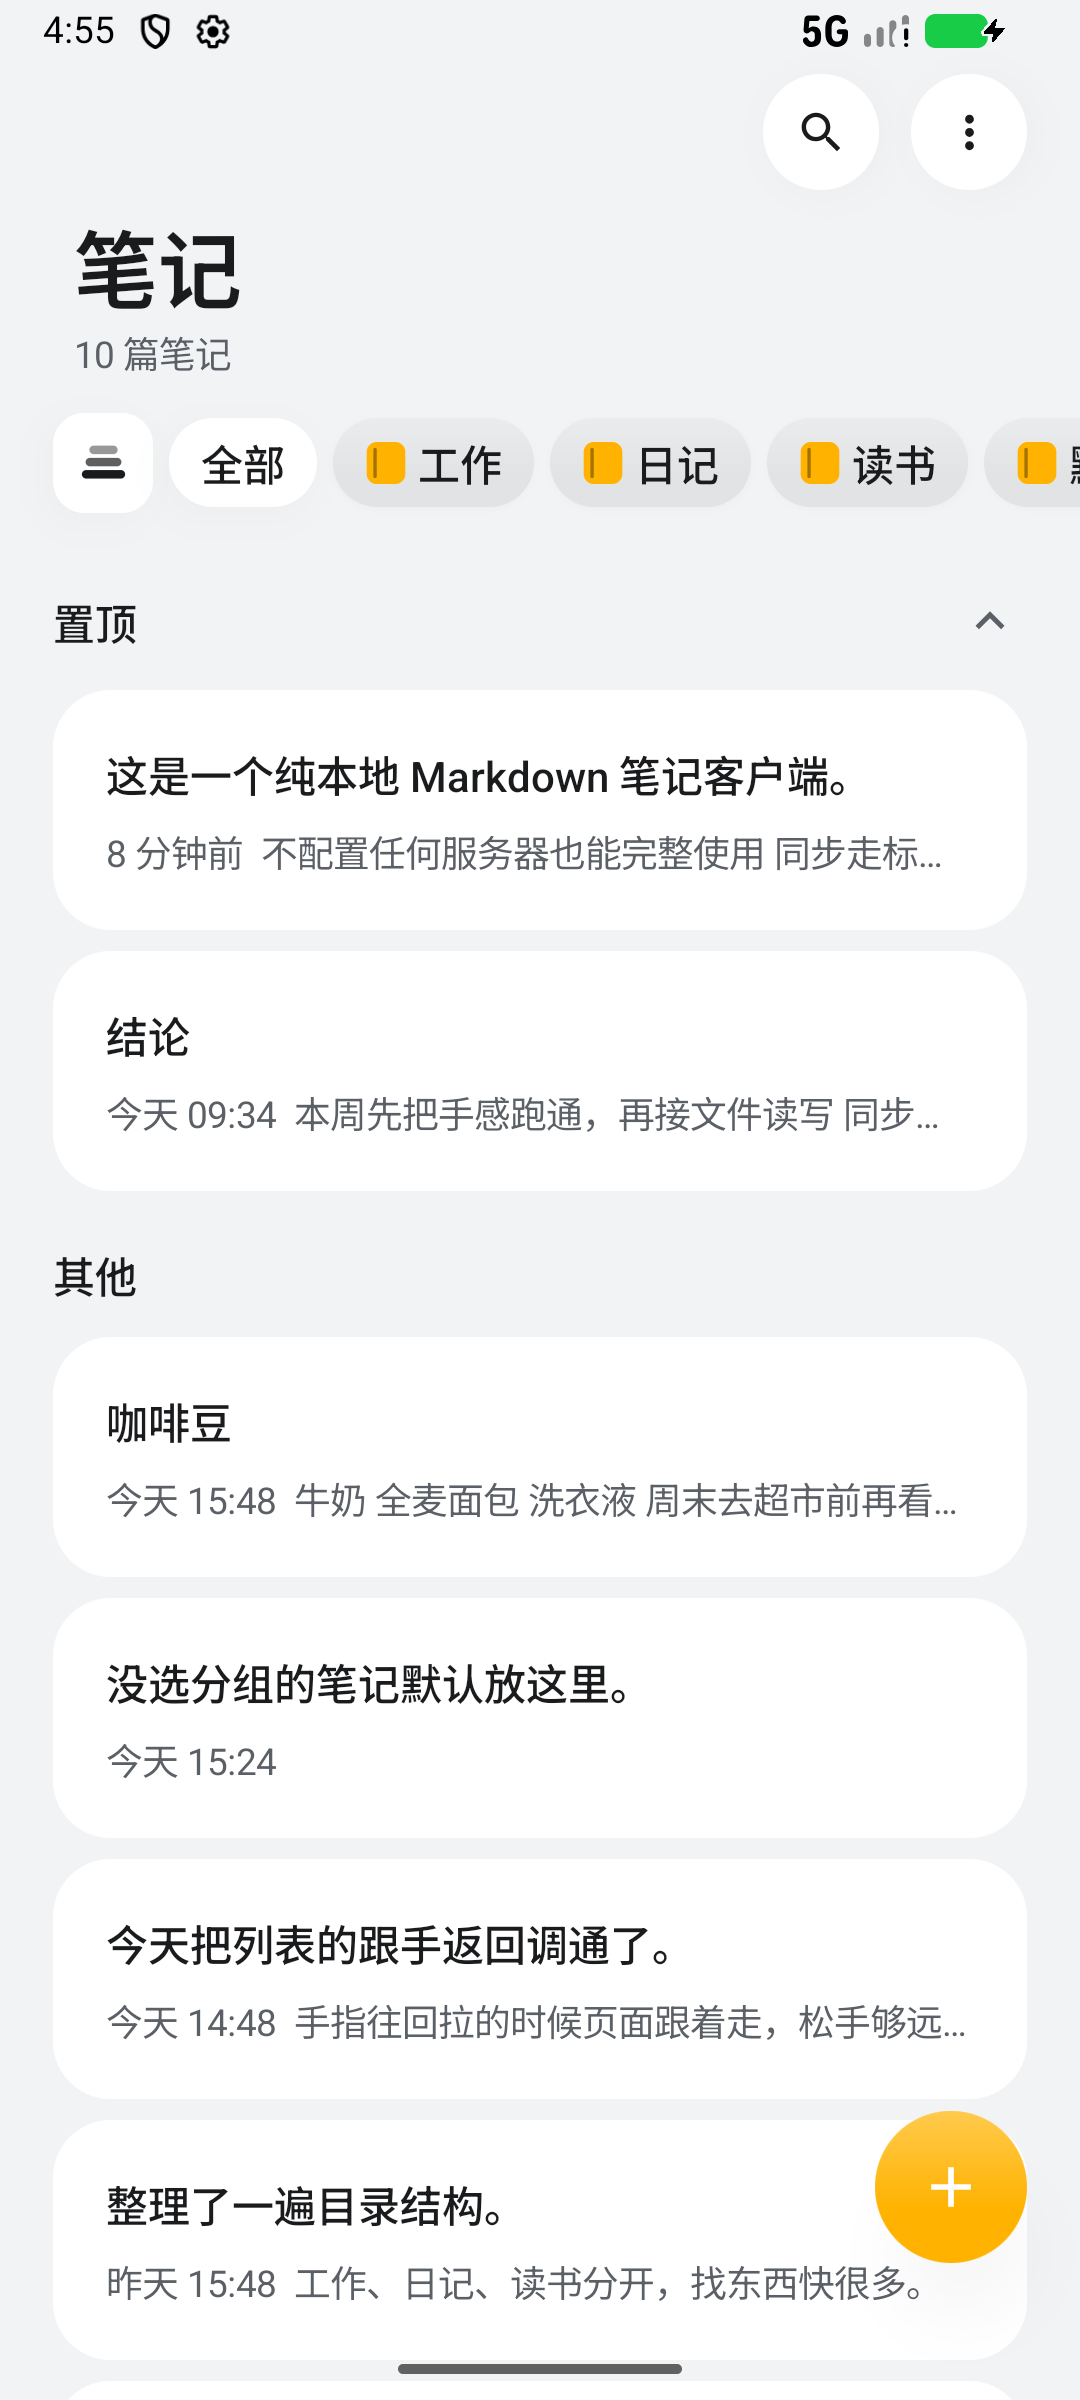
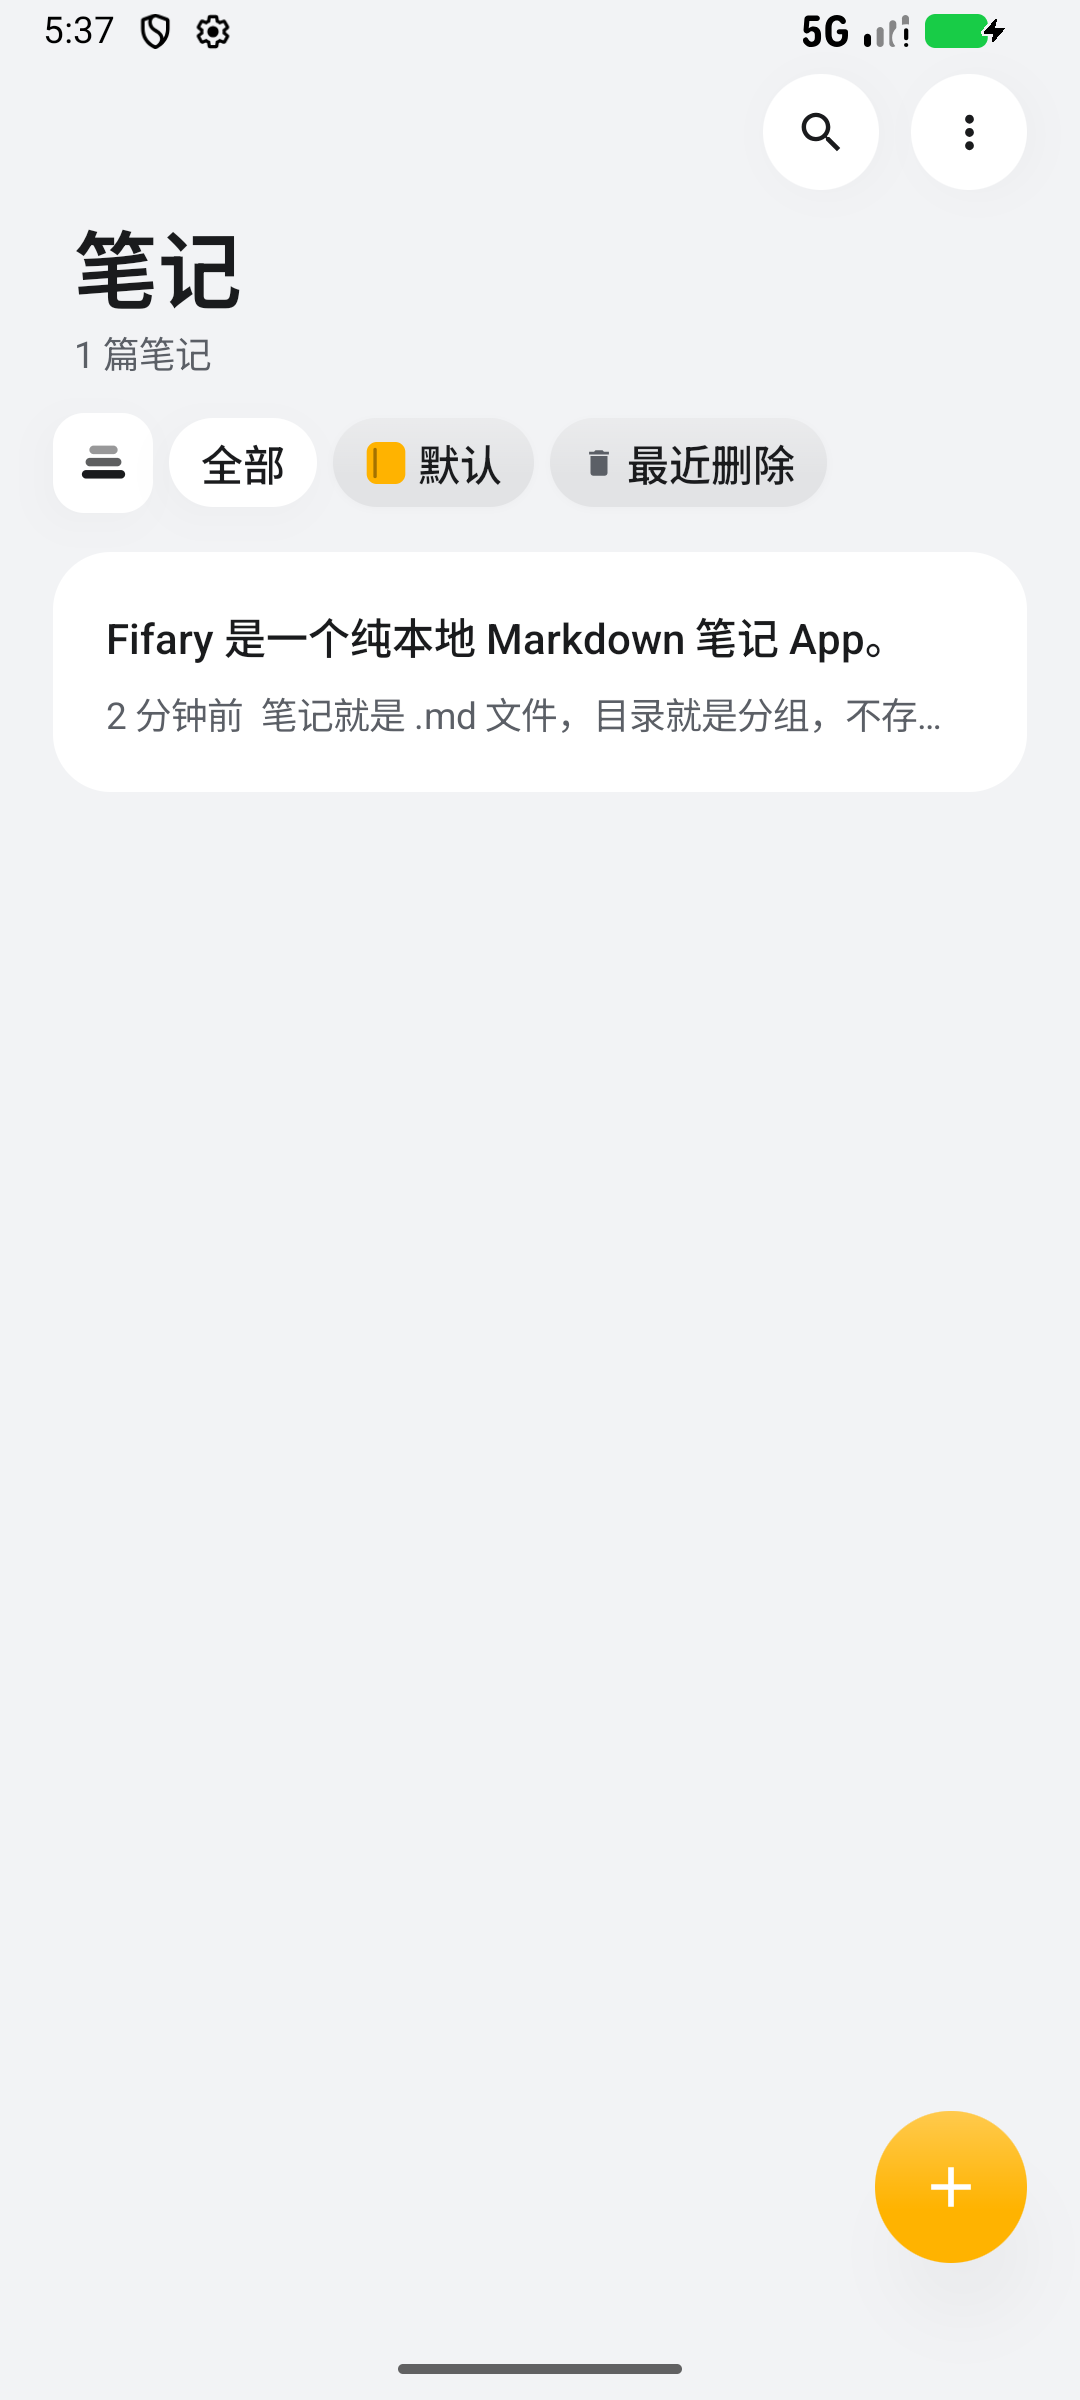
首次安装只留一篇介绍笔记；WebDAV 同步固定落在 Fifary/ 子目录
灌满 11 篇示例笔记等于替用户写内容，第一次打开只有噪声，改成默认分组里一篇介绍。
同步原来直接拿用户填的目录当 vault，会和他已有的文件混在一起，改成在下面建 Fifary/ 再读写；
用户本来填的就是 .../Fifary 时不重复加。

diff --git a/app/src/main/java/io/github/fifary/data/Notes.kt b/app/src/main/java/io/github/fifary/data/Notes.kt
@@ -45,80 +45,18 @@ object NotesStore {
 
     private val now = System.currentTimeMillis()
 
-    // 第一次装、vault 还不存在时灌一次的示例笔记；之后盘上有什么就显示什么
+    // 第一次装、vault 还不存在时灌一篇介绍；之后盘上有什么就显示什么
     private val seed: List<Note> = listOf(
         Note(
-            path = "欢迎使用 Fifary.md",
-            body = "这是一个纯本地 Markdown 笔记客户端。\n\n" +
-                "- 不配置任何服务器也能完整使用\n" +
-                "- 同步走标准 WebDAV，随时可换\n" +
-                "- 分类就是目录，和 Obsidian 一样：文件怎么放，App 里就怎么显示",
+            path = "$DEFAULT/欢迎使用 Fifary.md",
+            body = "Fifary 是一个纯本地 Markdown 笔记 App。\n\n" +
+                "- 笔记就是 .md 文件，目录就是分组，不存数据库\n" +
+                "- 不配置任何服务器也能完整使用，没有账号体系\n" +
+                "- 同步走标准 WebDAV，随时可换，不锁定服务商\n" +
+                "- 还有私密笔记、导入导出、深浅色主题\n\n" +
+                "「设置」里可以改存储位置、语言、配置 WebDAV。这篇笔记随时可以删掉。",
             createdAt = now - 60_000,
             updatedAt = now - 60_000,
-            pinned = true,
-        ),
-        Note(
-            path = "购物清单.md",
-            body = "- 咖啡豆\n- 牛奶\n- 全麦面包\n- 洗衣液\n\n周末去超市前再看一眼。",
-            createdAt = now - 3_600_000,
-            updatedAt = now - 3_600_000,
-        ),
-        Note(
-            path = "灵感收集.md",
-            body = "- 通知栏直接新建笔记\n- 长按快捷记录，落盘后自动收起\n- 搜索按修改时间排序，而不是相关度",
-            createdAt = now - 400_000_000,
-            updatedAt = now - 400_000_000,
-        ),
-        Note(
-            path = "$DEFAULT/新想法.md",
-            body = "没选分组的笔记默认放这里。",
-            createdAt = now - 5_000_000,
-            updatedAt = now - 5_000_000,
-        ),
-        Note(
-            path = "日记/2026-05-12.md",
-            body = "今天把列表的跟手返回调通了。\n\n手指往回拉的时候页面跟着走，松手够远才真的退出，这个感觉比纯动画自然很多。",
-            createdAt = now - 7_200_000,
-            updatedAt = now - 7_200_000,
-        ),
-        Note(
-            path = "日记/2026-05-10.md",
-            body = "整理了一遍目录结构。\n\n工作、日记、读书分开，找东西快很多。",
-            createdAt = now - 90_000_000,
-            updatedAt = now - 90_000_000,
-        ),
-        Note(
-            path = "工作/周会记录.md",
-            body = "结论\n\n1. 本周先把手感跑通，再接文件读写\n2. 同步功能排在文件之后\n3. 冲突策略默认保留两份，不覆盖",
-            createdAt = now - 26_000_000,
-            updatedAt = now - 26_000_000,
-            pinned = true,
-        ),
-        Note(
-            path = "工作/需求草案.md",
-            body = "目标\n\n支持任意标准 WebDAV，不绑定服务商。\n\n约束\n\n- 只发用户配置的请求\n- 无账号体系",
-            createdAt = now - 500_000_000,
-            updatedAt = now - 500_000_000,
-        ),
-        Note(
-            path = "读书/深度工作.md",
-            body = "注意力是稀缺资源。把大块时间留给不需要即时反馈的工作。\n\n忙碌不等于高效。",
-            createdAt = now - 172_000_000,
-            updatedAt = now - 172_000_000,
-        ),
-        Note(
-            path = "读书/代码整洁之道.md",
-            body = "注释只在代码无法表达「为什么」的时候写。\n\n能删的代码就是最好的代码。",
-            createdAt = now - 800_000_000,
-            updatedAt = now - 800_000_000,
-        ),
-        // 最近删除留一条，方便看 30 天倒计时
-        Note(
-            path = "旧的草稿.md",
-            body = "写完发现方向不对，先扔着。",
-            createdAt = now - 900_000_000,
-            updatedAt = now - 900_000_000,
-            deletedAt = now - 3 * 24 * 60 * 60 * 1000L,
         ),
     )
 

diff --git a/app/src/main/java/io/github/fifary/data/Dav.kt b/app/src/main/java/io/github/fifary/data/Dav.kt
@@ -107,7 +107,15 @@ object Dav {
 
     // ---- WebDAV ----
 
-    private fun base(): String = SettingsStore.davUrl.trim().let { if (it.endsWith("/")) it else "$it/" }
+    // 用户填的地址只当父目录，真正读写的永远是它下面的 Fifary/：
+    // 直接把根目录当同步目录，会和用户 WebDAV 里已有的文件混在一起
+    private fun base(): String {
+        val url = SettingsStore.davUrl.trim().trimEnd('/')
+        if (url.endsWith("/$DIR", true)) return "$url/"
+        return "$url/$DIR/"
+    }
+
+    private const val DIR = "Fifary"
 
     private fun basic(): String {
         val raw = "${SettingsStore.davUser}:${SettingsStore.davPass}"

diff --git a/app/src/main/java/io/github/fifary/ui/settings/SyncScreen.kt b/app/src/main/java/io/github/fifary/ui/settings/SyncScreen.kt
@@ -68,7 +68,7 @@ fun SyncScreen(onBack: () -> Unit) {
     if (askUrl) {
         InputDialog(
             title = S("服务器地址"),
-            placeholder = "https://dav.example.com/fifary/",
+            placeholder = "https://dav.example.com/dav/",
             confirmText = S("保存"),
             initial = SettingsStore.davUrl,
             onDismiss = { askUrl = false },

diff --git a/README.md b/README.md
@@ -36,7 +36,7 @@ vault/
 
 ## 同步怎么做
 
-设置 → 同步数据 → 填 WebDAV 地址、账号、密码。上传/下载按文件的最后修改时间比：本地新就传上去，远端新就拉下来，两边都有就谁新听谁的。**不删数据**，远端多出来的文件会被拉回本地。
+设置 → 同步数据 → 填 WebDAV 地址、账号、密码。App 只在填的地址下面建一个 `Fifary/` 目录放笔记，不碰你 WebDAV 里的其他文件。上传/下载按文件的最后修改时间比：本地新就传上去，远端新就拉下来，两边都有就谁新听谁的。**不删数据**，远端多出来的文件会被拉回本地。
 
 ## 构建
 
